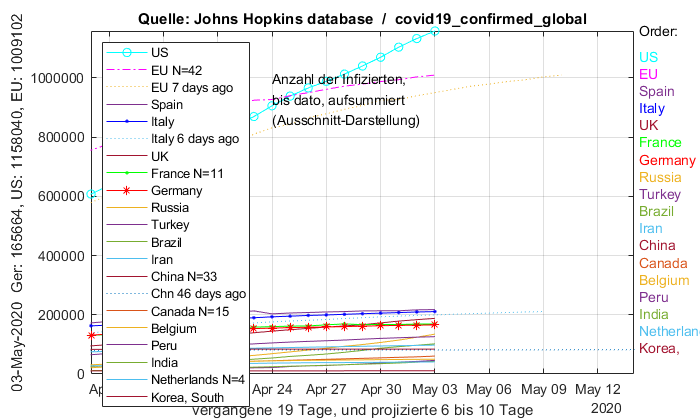
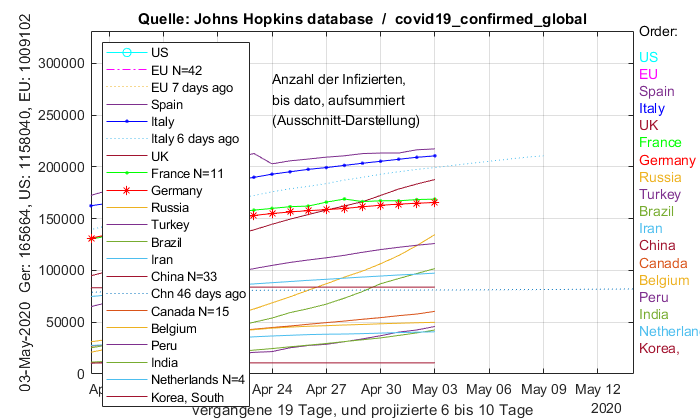
Add Images from 03-May-2020

diff --git a/covid19/corona_status.m b/covid19/corona_status.m
@@ -95,8 +95,10 @@ for pp = 1:numel(CList)
       cl='g.-';  sum_fr=round(case_sum(end));
    elseif isequal(CList{pp},'US')
       cl='co-';  sum_us=round(case_sum(end));
+   elseif isequal(CList{pp},'Spain')
+                 sum_spain=round(case_sum(end));
    elseif isequal(CList{pp},'Italy')
-      cl='b.-';
+      cl='b.-';  sum_italy=round(case_sum(end));
       dt=6; if url_idx==2; dt=12; end
    elseif isequal(CList{pp},'China') 
       dt=46;     cntry_short='Chn';
@@ -243,7 +245,8 @@ if ~do_diff
    idx=idx+1;
    fname=sprintf('corona_%02d_heute', idx);
    set(gca,'xlim',datetime('today')+[-20 10])
-   set(gca,'ylim',[0 max([sum_ger*2 sum_fr sum_us])])
+   %set(gca,'ylim',[0 max([sum_ger*2 sum_fr sum_us])])
+   set(gca,'ylim',[0 max([sum_ger*2 sum_fr sum_spain sum_italy])])
    xxx=xlim; xx1=(ti(end)-xxx(1));
    if min_dt < 10
         xlabel(sprintf('vergangene %d Tage, und projizierte %d bis %d Tage', days(xx1), min_dt, 10));
